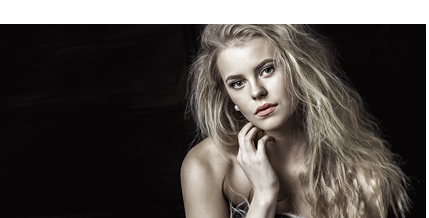
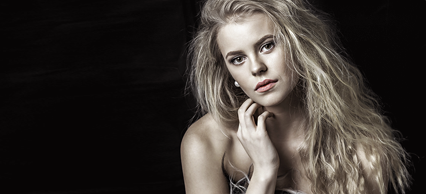
fixed image size

diff --git a/css/style.css b/css/style.css
@@ -179,6 +179,7 @@ h3 {
     justify-content: center;
     padding-left: 100px;
     padding-bottom: 100px;
+    background-color: lavender;
 }
 
 .advert h2 {
@@ -265,6 +266,7 @@ h3 {
 
 .mainItem.top{
     height: 195px;
+    border: none;
 }
 
 .mainItem.wideItem {
@@ -280,6 +282,7 @@ h3 {
     color: white;
     background-color: black;
     border: 1px solid  #c59a77;
+    z-index: 100;
 }
 
 .arrow-right.black-arrow:hover {
@@ -288,31 +291,49 @@ h3 {
     border: none;
 }
 
+.top .arrow-right {
+    z-index: 100;
+}
+
 .top-category {
     display: flex;
     justify-content: flex-start;
     align-items: center;
     padding: 30px 30px;
     width: 200px;
-
     font: 1.8rem ProximaNovaBold,  sans-serif;
+    position: absolute;
+    top: 0;
+    left: 0;
+    z-index: 50;
 }
 
+.top-image-bg {
+    width: 100%;
+    height: 100%;
+    position: absolute;
+    display: block;
+    top:  0;
+    left: 0;
+}
+
+
 .mainItem.top:first-child{
-    background: url("../images/bg_category_1.png") no-repeat center;
-    background-size: auto 120%;
+    /*background: url("../images/bg_category_1.png") no-repeat center;
+    background-size: auto 120%;*/
     color: #c59a77;
 }
 
 .mainItem.top:nth-child(2){
-    background: url("../images/bg_category_2.png") no-repeat center;
-    background-size: cover;
+    /*background: url("../images/bg_category_2.png") no-repeat center;
+    background-size: cover;*/
     color: black;
 }
 
 .mainItem.top:nth-child(3){
-    background: linear-gradient(to right, rgb(178,136,102), rgb(220, 191, 196) 55%, rgb(201, 161,135));
+   /* background: linear-gradient(to right, rgb(178,136,102), rgb(220, 191, 196) 55%, rgb(201, 161,135));*/
     color: white;
+
 }
 
 /* footer -------------*/

diff --git a/index.html b/index.html
@@ -83,15 +83,20 @@
             <div class="mainItem top">
                 <p class="top-category">Популярные бренды</p>
                 <a class="arrow-right black-arrow" href="#"><i class="fa fa-angle-right fa-lg" aria-hidden="true"></i></a>
+                <img class="top-image-bg" src="images/bg_category_1.png" alt="">
             </div>
             <div class="mainItem top">
                 <p class="top-category">Уход за волосами</p>
                 <a class="arrow-right black-arrow" href="#"><i class="fa fa-angle-right fa-lg" aria-hidden="true"></i></a>
+                <img class="top-image-bg" src="images/bg_category_2.png" alt="">
             </div>
             <div class="mainItem top">
                 <p class="top-category">Товары для мужчин</p>
+
                 <a class="arrow-right" href="#"><i class="fa fa-angle-right fa-lg" aria-hidden="true"></i></a>
+                <img class="top-image-bg" src="images/bg_category_3.png" alt="">
             </div>
+
             <div class="mainItem">
                 <h3></h3>
                 <p class="product-desc"></p>
